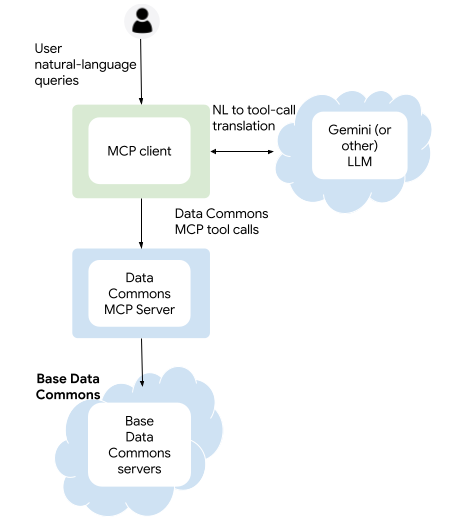
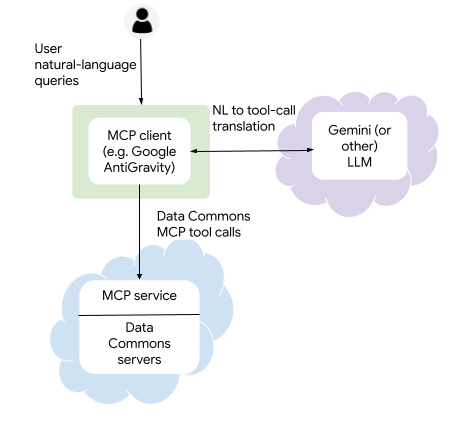
Remove content about running a self-hosted MCP server (#739)
* Add definitions and descriptions of multi-entity statvars and observations

* Remove references to self-hosted server in base DC

Changed region(s): [[0.0617, 0.0, 0.9559, 0.9881]]

diff --git a/mcp/index.md b/mcp/index.md
@@ -15,18 +15,11 @@ has_children: true
 
 The Data Commons [Model Context Protocol (MCP)](https://modelcontextprotocol.io/docs/getting-started/intro) service gives AI agents access to the Data Commons knowledge graph and returns data related to statistical variables, topics, and observations. It allows end users to formulate complex natural-language queries interactively, get data in textual, structured or unstructured formats, and download the data as desired. For example, depending on the agent, a user can answer high-level questions such as "give me the economic indicators of the BRICS countries", view simple tables, and download a CSV file of the data in tabular format.
 
-The MCP server returns data from datacommons.org ("base") by default. It can also be configured to query a Custom Data Commons instance. 
+The MCP service returns data from datacommons.org ("base") by default. It can also be configured to query a Custom Data Commons instance. 
 
 For base Data Commons, the server is available as a hosted managed deployment to which you can connect from any AI agent running locally or remotely.
 
 ![base Data Commons](/assets/images/mcp1.png)
-
-You can also run your own MCP server locally, or in Google Cloud Platform. If you want to use the server to query a Custom Data Commons instance, you _must_ run your own. The server is available as:
--  A prebuilt [Python package](https://pypi.org/project/datacommons-mcp/){: target="_blank"} for running locally 
--  A prebuilt standalone [Docker image](https://console.cloud.google.com/artifacts/docker/datcom-ci/us/gcr.io/datacommons-mcp-server?project=datcom-ci){: target="_blank"} for running in a cloud service
--  Bundled with the [Custom Data Commons Docker services image](/custom_dc/quickstart.html#overview) for running in Google Cloud Run (for Custom Data Commons only)
-
-![base or Custom Data Commons](/assets/images/mcp2.png)
 
 ## Tools
 
@@ -64,12 +57,6 @@ If you're curious, you can see the library at <https://github.com/datacommonsorg
 ## Clients
 
 To connect to the Data Commons MCP Server, you can use any available AI application that supports MCP, or your own custom agent. See [Use MCP tools](run_tools.md) for procedures for using [Google Antigravity](https://antigravity.google/).
-
-For self-hosted deployments, the server supports both standard MCP [transport protocols](https://modelcontextprotocol.io/docs/learn/architecture#transport-layer):
-- Streamable HTTP: For clients that connect remotely or otherwise require HTTP (e.g. Typescript)
-- Stdio: For clients that connect directly using local processes
-
-If you're interested in this option, see [Run a self-hosted MCP server](host_server.md) for procedures.
 
 ## Unsupported features
 

diff --git a/mcp/run_tools.md b/mcp/run_tools.md
@@ -10,8 +10,6 @@ parent: MCP - Query data interactively with an AI agent
 
 This page describes how to run a local agent and connect to a Data Commons MCP server to query datacommons.org, using the centrally hosted server at `https://api.datacommons.org/mcp`. 
 
-For advanced use cases, such as developing a custom agent, [Run a self-hosted MCP server](host_server.md) describes how to run your own local server and connect to it from an agent. 
-
 For procedures for Custom Data Commons instances, please see instead [Use MCP tools](/custom_dc/mcp.html).
 
 * TOC
